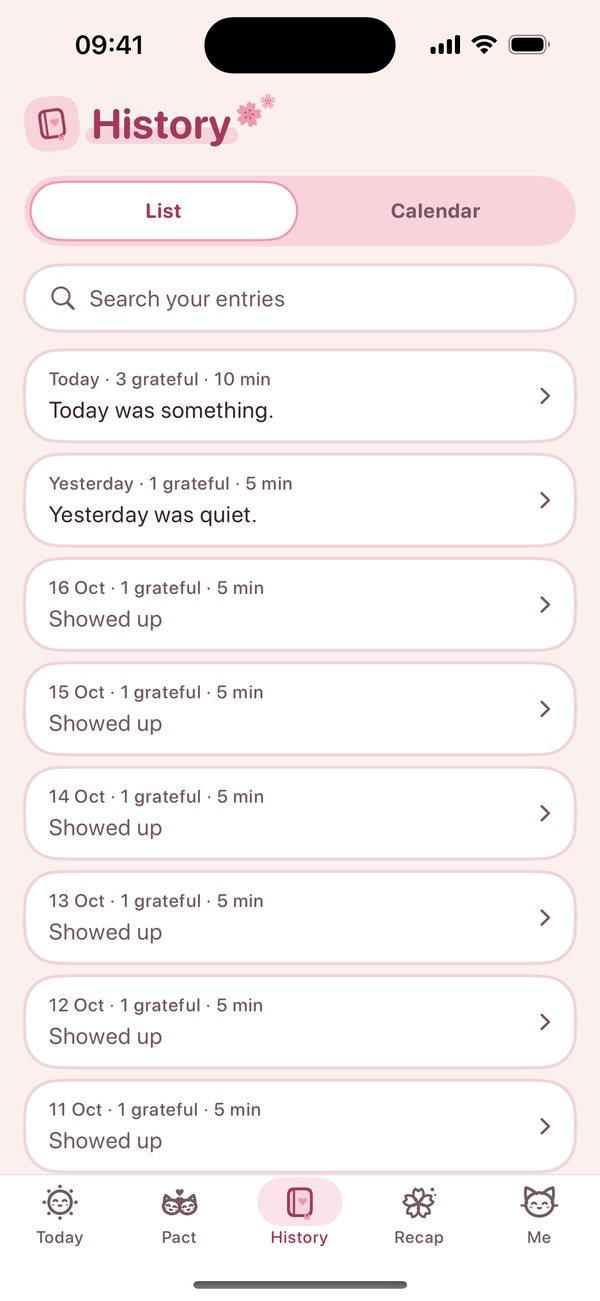
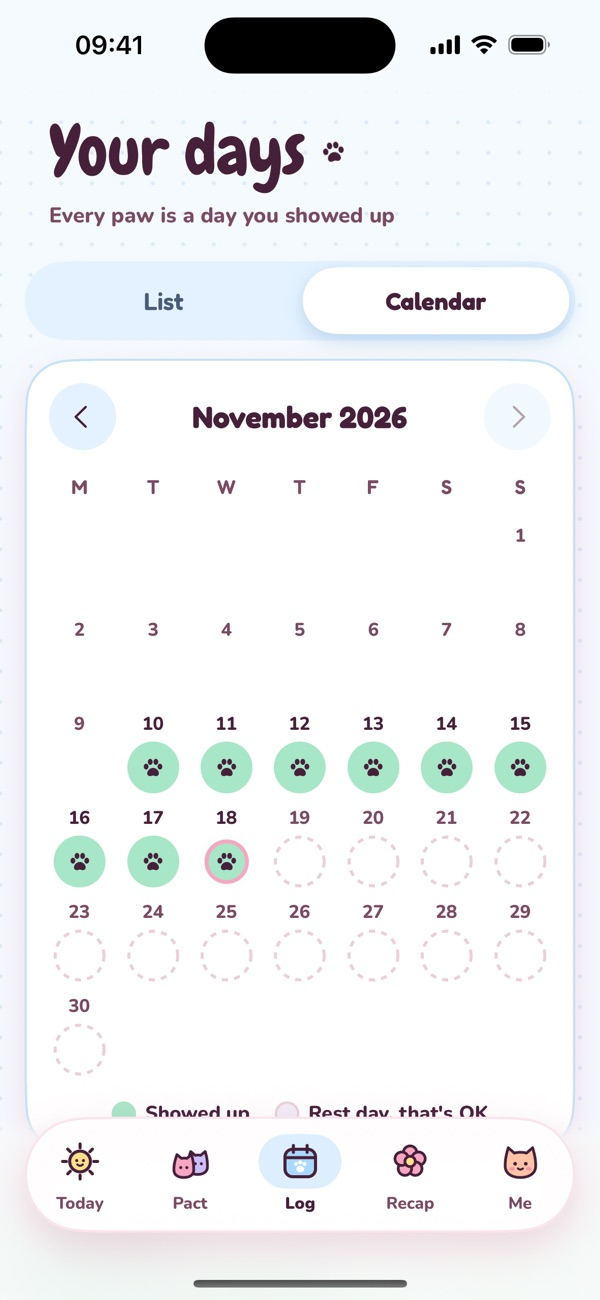
Acatability site: fresh Macaron screenshots and a Peek inside gallery on the home page

Changed region(s): [[0.03, 0.0308, 0.96, 0.9846]]

diff --git a/acatability/index.html b/acatability/index.html
@@ -156,19 +156,19 @@
             <div class="num">1</div>
             <h3>Check in</h3>
             <p>Write, list a few good things, log your minutes. Only you read it.</p>
-            <img class="phone" src="/acatability/img/check-in.jpg" width="600" height="1300" alt="Today&#x27;s check-in: a private journal, things you&#x27;re grateful for and minutes spent" loading="lazy" />
+            <img class="phone" src="/acatability/img/check-in.jpg" width="600" height="1300" alt="The daily check-in: an intention, a journal prompt from your cat, and Done for today" loading="lazy" />
           </figure>
           <figure class="step">
             <div class="num">2</div>
             <h3>Bring your friends</h3>
             <p>Send a code. Up to 4 friends join your pact, free.</p>
-            <img class="phone" src="/acatability/img/pact.jpg" width="600" height="1300" alt="The Pact tab: two cats touching heads, 4 days together, and Priya checked in 12 minutes ago" loading="lazy" />
+            <img class="phone" src="/acatability/img/pact.jpg" width="600" height="1300" alt="The Pact tab: you and Priya on the sofa, 2 of 2 showed up today, 4 together days this month" loading="lazy" />
           </figure>
           <figure class="step">
             <div class="num">3</div>
             <h3>Keep it going</h3>
             <p>Show up daily. Your cat goes wild.</p>
-            <img class="phone" src="/acatability/img/today.jpg" width="600" height="1300" alt="Today: your cat and your days together" loading="lazy" />
+            <img class="phone" src="/acatability/img/today.jpg" width="600" height="1300" alt="Today: Persik the cat cheers under bunting, day 9, and you showed up today" loading="lazy" />
           </figure>
         </div>
         <p class="swipe-hint">Swipe for more</p>
@@ -206,6 +206,16 @@
       </div>
     </section>
 
+    <section aria-labelledby="peek-title">
+      <div class="wrap">
+        <div class="section-head center"><p class="eyebrow">Screenshots</p><h2 id="peek-title">Peek inside</h2><p class="lede">Real screens from the app.</p></div>
+        <div class="gallery">
+          <figure class="shot"><img class="phone" src="/acatability/img/today.jpg" width="600" height="1300" alt="Today: Persik the cat cheers under bunting, day 9, and you showed up today" loading="lazy" /><figcaption>Today</figcaption></figure><figure class="shot"><img class="phone" src="/acatability/img/check-in.jpg" width="600" height="1300" alt="The daily check-in: an intention, a journal prompt from your cat, and Done for today" loading="lazy" /><figcaption>Check in</figcaption></figure><figure class="shot"><img class="phone" src="/acatability/img/pact.jpg" width="600" height="1300" alt="The Pact tab: you and Priya on the sofa, 2 of 2 showed up today, 4 together days this month" loading="lazy" /><figcaption>Your pact</figcaption></figure><figure class="shot"><img class="phone" src="/acatability/img/history.jpg" width="600" height="1300" alt="Your days: a calendar with a paw on every day you showed up" loading="lazy" /><figcaption>Your days</figcaption></figure><figure class="shot"><img class="phone" src="/acatability/img/recap.jpg" width="600" height="1300" alt="Recap: 6 days you showed up last week, with a Play button, plus month and year" loading="lazy" /><figcaption>Recap</figcaption></figure><figure class="shot"><img class="phone" src="/acatability/img/me.jpg" width="600" height="1300" alt="Me: your cat&#x27;s name and colour, cat sounds and settings" loading="lazy" /><figcaption>Me</figcaption></figure>
+        </div>
+        <p class="swipe-hint">Swipe for more</p>
+      </div>
+    </section>
+
     <section aria-labelledby="recap-title">
       <div class="wrap">
         <div class="split">
@@ -219,7 +229,7 @@
               <li>Share a picture: numbers and favourites only. Never your journal.</li>
             </ul>
           </div>
-          <img class="phone" src="/acatability/img/recap.jpg" width="600" height="1300" alt="Recap: last week, 2 days you showed up, 10 minutes on yourself, and a Play button" loading="lazy" />
+          <img class="phone" src="/acatability/img/recap.jpg" width="600" height="1300" alt="Recap: 6 days you showed up last week, with a Play button, plus month and year" loading="lazy" />
         </div>
       </div>
     </section>

diff --git a/acatability/how-it-works/index.html b/acatability/how-it-works/index.html
@@ -140,7 +140,7 @@
             <p class="lede">About 5 minutes. Morning or night.</p>
             <ul class="ticks"><li>Write a line or two. Only you can read it.</li><li>List a few things you're grateful for.</li><li>Tap your minutes: journalling or meditation.</li><li>Stuck? Ask for a prompt. Want focus? Set an intention.</li></ul>
           </div>
-          <img class="phone" src="/acatability/img/check-in.jpg" width="600" height="1300" alt="The check-in sheet: journal, grateful for, and minute buttons" loading="lazy" />
+          <img class="phone" src="/acatability/img/check-in.jpg" width="600" height="1300" alt="The check-in page: an intention to share with Priya, a journal prompt, and Done for today" loading="lazy" />
         </div>
       </div>
     </section>
@@ -154,7 +154,7 @@
             <p class="lede">A small group that shows up for each other.</p>
             <ul class="ticks"><li>Up to 5 of you. Friends join with a code, free.</li><li>See who checked in, and when.</li><li>Send a paw. Nudge someone, once a day.</li><li>Count the days you all checked in.</li></ul>
           </div>
-          <img class="phone" src="/acatability/img/pact.jpg" width="600" height="1300" alt="The Pact tab: your pact with Priya, 4 days together, Priya checked in" loading="lazy" />
+          <img class="phone" src="/acatability/img/pact.jpg" width="600" height="1300" alt="The Pact tab: you and Priya on the sofa, 2 of 2 showed up today" loading="lazy" />
         </div>
       </div>
     </section>
@@ -168,7 +168,7 @@
             <p class="lede">Cheers when you show up. Never tells you off.</p>
             <ul class="ticks"><li>6 colours. You choose the name.</li><li>Meows, purrs, and a hiss if you pull his tail. He forgives you.</li><li>Some days he brings a gift. 30 to find.</li><li>Day 1, 7, 30 and 365: a big thank-you.</li></ul>
           </div>
-          <img class="phone" src="/acatability/img/today.jpg" width="600" height="1300" alt="Today: your cat celebrating a check-in" loading="lazy" />
+          <img class="phone" src="/acatability/img/today.jpg" width="600" height="1300" alt="Today: your cat celebrating a check-in under bunting" loading="lazy" />
         </div>
       </div>
     </section>
@@ -182,7 +182,7 @@
             <p class="lede">Every day you showed up, in one place.</p>
             <ul class="ticks"><li>List or calendar. Search anything.</li><li>Open a day to read it again.</li><li>Week, month and year recaps, free.</li></ul>
           </div>
-          <img class="phone" src="/acatability/img/history.jpg" width="600" height="1300" alt="History: a list of past check-ins with search" loading="lazy" />
+          <img class="phone" src="/acatability/img/history.jpg" width="600" height="1300" alt="Your days: a calendar with a paw on every day you showed up" loading="lazy" />
         </div>
       </div>
     </section>

diff --git a/acatability/site.css b/acatability/site.css
@@ -447,3 +447,20 @@ main, .site-head, .site-foot { position: relative; z-index: 1; }
   65%  { opacity: 0; transform: translateY(-30px) scale(1); }
   100% { opacity: 0; transform: translateY(-30px) scale(1); }
 }
+
+/* Screenshot gallery: a swipe strip of real app screens */
+.gallery {
+  display: grid; grid-auto-flow: column; grid-auto-columns: 62%; gap: 16px;
+  overflow-x: auto; scroll-snap-type: x mandatory; padding: 6px 16px 18px; margin: 0 -16px;
+  scrollbar-width: none;
+}
+.gallery::-webkit-scrollbar { display: none; }
+.shot { scroll-snap-align: center; text-align: center; }
+.shot .phone { width: 100%; height: auto; }
+.gallery + .swipe-hint { display: block; margin-top: 0; }
+.shot figcaption { margin-top: 10px; font-family: var(--num); font-weight: 600; font-size: 16px; color: var(--ink); }
+@media (min-width: 560px) { .gallery { grid-auto-columns: 40%; } }
+@media (min-width: 820px) {
+  .gallery { grid-auto-flow: row; grid-template-columns: repeat(3, 1fr); overflow: visible; margin: 0; padding: 6px 0 0; gap: 28px 22px; }
+  .gallery + .swipe-hint { display: none; }
+}

diff --git a/_build/acatability_site.py b/_build/acatability_site.py
@@ -154,6 +154,15 @@ def write(rel, text):
     os.makedirs(os.path.dirname(full), exist_ok=True)
     with open(full, "w") as f: f.write(text)
 
+SHOTS = [
+    ("today", "Today", "Today: Persik the cat cheers under bunting, day 9, and you showed up today"),
+    ("check-in", "Check in", "The daily check-in: an intention, a journal prompt from your cat, and Done for today"),
+    ("pact", "Your pact", "The Pact tab: you and Priya on the sofa, 2 of 2 showed up today, 4 together days this month"),
+    ("history", "Your days", "Your days: a calendar with a paw on every day you showed up"),
+    ("recap", "Recap", "Recap: 6 days you showed up last week, with a Play button, plus month and year"),
+    ("me", "Me", "Me: your cat's name and colour, cat sounds and settings"),
+]
+
 def phone(name, alt, eager=False):
     lazy = "" if eager else ' loading="lazy"'
     return f'<img class="phone" src="/acatability/img/{name}.jpg" width="600" height="1300" alt="{esc(alt)}"{lazy} />'
@@ -371,19 +380,19 @@ home_body = f"""
             <div class="num">1</div>
             <h3>Check in</h3>
             <p>Write, list a few good things, log your minutes. Only you read it.</p>
-            {phone("check-in", "Today's check-in: a private journal, things you're grateful for and minutes spent")}
+            {phone("check-in", "The daily check-in: an intention, a journal prompt from your cat, and Done for today")}
           </figure>
           <figure class="step">
             <div class="num">2</div>
             <h3>Bring your friends</h3>
             <p>Send a code. Up to 4 friends join your pact, free.</p>
-            {phone("pact", "The Pact tab: two cats touching heads, 4 days together, and Priya checked in 12 minutes ago")}
+            {phone("pact", "The Pact tab: you and Priya on the sofa, 2 of 2 showed up today, 4 together days this month")}
           </figure>
           <figure class="step">
             <div class="num">3</div>
             <h3>Keep it going</h3>
             <p>Show up daily. Your cat goes wild.</p>
-            {phone("today", "Today: your cat and your days together")}
+            {phone("today", "Today: Persik the cat cheers under bunting, day 9, and you showed up today")}
           </figure>
         </div>
         <p class="swipe-hint">Swipe for more</p>
@@ -414,6 +423,16 @@ home_body = f"""
       </div>
     </section>
 
+    <section aria-labelledby="peek-title">
+      <div class="wrap">
+        {heading("Peek inside", sub="Real screens from the app.", eyebrow="Screenshots", hid="peek-title")}
+        <div class="gallery">
+          {"".join(f'<figure class="shot">{phone(n, alt)}<figcaption>{cap}</figcaption></figure>' for n, cap, alt in SHOTS)}
+        </div>
+        <p class="swipe-hint">Swipe for more</p>
+      </div>
+    </section>
+
     <section aria-labelledby="recap-title">
       <div class="wrap">
         <div class="split">
@@ -427,7 +446,7 @@ home_body = f"""
               <li>Share a picture: numbers and favourites only. Never your journal.</li>
             </ul>
           </div>
-          {phone("recap", "Recap: last week, 2 days you showed up, 10 minutes on yourself, and a Play button")}
+          {phone("recap", "Recap: 6 days you showed up last week, with a Play button, plus month and year")}
         </div>
       </div>
     </section>
@@ -504,24 +523,24 @@ how_body = f"""
     "List a few things you're grateful for.",
     "Tap your minutes: journalling or meditation.",
     "Stuck? Ask for a prompt. Want focus? Set an intention.",
-], "check-in", "The check-in sheet: journal, grateful for, and minute buttons")}
+], "check-in", "The check-in page: an intention to share with Priya, a journal prompt, and Done for today")}
 {split("Together", "pact-title", "Your pact", "A small group that shows up for each other.", [
     "Up to 5 of you. Friends join with a code, free.",
     "See who checked in, and when.",
     "Send a paw. Nudge someone, once a day.",
     "Count the days you all checked in.",
-], "pact", "The Pact tab: your pact with Priya, 4 days together, Priya checked in", flip=True)}
+], "pact", "The Pact tab: you and Priya on the sofa, 2 of 2 showed up today", flip=True)}
 {split("Your cat", "cat-title", "A cat in your corner", "Cheers when you show up. Never tells you off.", [
     "6 colours. You choose the name.",
     "Meows, purrs, and a hiss if you pull his tail. He forgives you.",
     "Some days he brings a gift. 30 to find.",
     "Day 1, 7, 30 and 365: a big thank-you.",
-], "today", "Today: your cat celebrating a check-in")}
+], "today", "Today: your cat celebrating a check-in under bunting")}
 {split("Looking back", "history-title", "History and recaps", "Every day you showed up, in one place.", [
     "List or calendar. Search anything.",
     "Open a day to read it again.",
     "Week, month and year recaps, free.",
-], "history", "History: a list of past check-ins with search", flip=True)}
+], "history", "Your days: a calendar with a paw on every day you showed up", flip=True)}
     <section aria-labelledby="extras-title">
       <div class="wrap">
         {heading("Little extras", hid="extras-title")}
